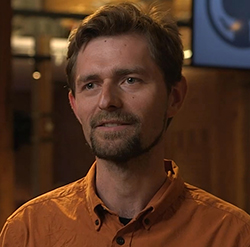
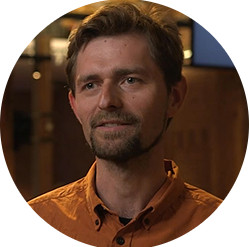
stripping down elements, formating members page

Changed region(s): [[0.56, 0.0, 1.0, 1.0], [0.0, 0.5385, 0.392, 1.0], [0.0, 0.0, 0.42, 0.4818]]

diff --git a/index.html b/index.html
@@ -12,14 +12,14 @@ subtitle: Department of Environmental Science, Policy and Management
   <div class="row">
     <div class="col-md-5 col-md-offset-1">
       <p>
-      Welcome to the research group of  <a property="foaf:homepage
+      Welcome to the research group of <a property="foaf:homepage
       schema:url" href="http://carlboettiger.info"><span
       property="foaf:name"> <span property="foaf:givenName">Carl</span>
-      <span property="foaf:familyName">Boettiger</span>
-      </span></a>, <span property="schema:jobTitle">Assistant
-      Professor</span> in the department of <a rel="schema:affiliation"
+      <span property="foaf:familyName">Boettiger</span></span></a>, 
+      <span property="schema:jobTitle">Assistant
+      Professor</span> in the Department of <a rel="schema:affiliation"
       href="http://ourenvironment.berkeley.edu">Environmental Science,
-      Policy and Management</a>, at <a rel="foaf:workplaceHomepage"
+      Policy and Management</a> at <a rel="foaf:workplaceHomepage"
       href="http://www.berkeley.edu/">UC Berkeley</a>.
       <span rel="foaf:interest"> We work on regime shifts in ecology and
       evolution. Such shifts mark the most dramatic events in complex
@@ -32,10 +32,10 @@ subtitle: Department of Environmental Science, Policy and Management
       high performance computing and big data sets. </span>
        </p>
     </div> <!-- END col-md-5-->
-    <div class="col-md-3"><img property="foaf:depiction" src="assets/img/carlboettiger.png" alt="Photo of Carl Boettiger"/></div>
+    <div class="col-md-3"><img property="foaf:depiction" src="assets/img/carl_ropensci.jpg" alt="Photo of Carl Boettiger"/></div>
   </div> <!-- END row-->
   <div class="row">
-    <div class="col-md-5 col-md-offset-1">
+    <div class="col-md-4 col-md-offset-1">
       <dl class="dl-horizontal">
         <dt><i class="icon-envelope-alt"></i> Contact:</dt>
         <dd><script type="text/javascript" src="/assets/js/obfuscate-email.js"></script></dd>
@@ -44,10 +44,12 @@ subtitle: Department of Environmental Science, Policy and Management
         <span property="schema:address"
         typeof="http://schema.org/PostalAddress" vocab=
         "http://schema.org/PostalAddress/"><span property=
-        "streetAddress">Center for Stock Assessment Research, 110 Shaffer Rd</span>, <span
-        property=  "addressLocality">Santa Cruz</span>, <span property=
+        "streetAddress">University of California, Berkeley
+        Department of Environmental Science, Policy, and
+        Management 130 Mulford Hall #3114</span>, <span
+        property=  "addressLocality">Berkeley</span>, <span property=
         "addressRegion">CA</span> <span property=
-        "postalCode">95050</span>, <span property=
+        "postalCode">94720-3114</span>, <span property=
         "addressCountry">USA</span></span> </dd>
         <dt><i class="icon-barcode"></i> Orcid ID:</dt>
         <dd><a property="http://purl.org/spar/datacite/orcid"

diff --git a/members.html b/members.html
@@ -1,0 +1,57 @@
+---
+layout: page
+title: Members
+
+---
+
+<div  class="col-md-5"
+ prefix="schema: http://schema.org/Person#" 
+ typeof="foaf:Person schema:Person" 
+ about="{{site.url}}#me"
+ style="font-size:20px; text-align:center;">
+
+  <p>
+  <img property="foaf:depiction" 
+       src="assets/img/carl_circle.png" 
+       alt="Photo of Carl Boettiger"/>
+  </p>
+  <p>
+  <a property="foaf:homepage schema:url" 
+     href="http://carlboettiger.info"><span
+     property="foaf:name"><span 
+     property="foaf:givenName">Carl</span> <span
+     property="foaf:familyName">Boettiger</span></span></a>
+  </p>
+  <p class="socialicons">
+  <script type="text/javascript" src="/assets/js/obfuscate-email-link.js"></script> 
+  <a rel="foaf:account" href="https://twitter.com/{{site.author.twitter}}" 
+  onclick="recordOutboundLink(this, 'Outbound Links', 'Twitter'); 
+  return false;"><span class="showtooltip" title="follow me on twitter (reading, discussing)"><i class="fa fa-twitter"></i></span></a> 
+  <a rel="foaf:account" href="https://github.com/{{site.author.github}}" 
+  onclick="recordOutboundLink(this, 'Outbound Links', 'Github'); 
+  return false;"><span class="showtooltip" title="follow me on Github (code, research)"><i class="fa fa-github"></i></span></a>
+  <a  property="http://purl.org/spar/datacite/orcid"
+    href="https://orcid.org/0000-0002-1642-628X" 
+    onclick="recordOutboundLink(this, 'Outbound Links', 'Github'); 
+    return false;"><span class="showtooltip" title="ORCID ID (Publications)"><i class="ai ai-orcid"></i></span></a>
+  <a rel="foaf:weblog" type="application/atom+xml" href="/blog.xml"  
+  class="showtooltip" title="RSS feeds for my blog-style entries. See the feed on my lab notebook (/atom.xml) to follow all entries instead." 
+  onclick="recordOutboundLink(this, 'Outbound Links', 'RSS'); 
+  return false;"><i class="fa fa-rss"></i></a>
+
+<!--
+<a rel="foaf:account" href="https://plus.google.com/{{site.author.gplus}}" 
+onclick="recordOutboundLink(this, 'Outbound Links', 'GPlus'); 
+return false;"><i class="fa fa-google-plus"></i></a>
+
+<a rel="foaf:account" href="http://www.mendeley.com/profiles/{{site.author.mendeley}}" 
+onclick="recordOutboundLink(this, 'Outbound Links', 'Mendeley'); 
+return false;"><img src="/assets/img/icon-mendeley.png" /></a> 
+
+citations on google-scholar
+
+stackoverflow
+-->
+</p>
+</div>
+

diff --git a/_includes/navbar.html b/_includes/navbar.html
@@ -19,14 +19,12 @@
 
           <li {% if page.url == "/index.html" %} class="active" {% endif %} >
           <a href="/index.html">Home</a></li>
-          <li {% if page.url == "/vita.html" %} class="active" {% endif %} >
-          <a href="/about.html">About</a></li>
-          <li {% if page.url == "/research.html" %} class="active" {% endif %} >
+          <li {% if page.url == "/members.html" %} class="active"{% endif %} >
+          <a href="/members.html">Members</a></li>
+          <li {% if page.url == "/publications.html" %} class="active" {% endif %} >
           <a href="/publications.html">Publications</a></li>
           <li {% if page.url == "/teaching.html" %} class="active" {% endif %} >
           <a href="/teaching.html">Teaching</a></li>
-          <li {% if page.url == "/community.html" %} class="active"{% endif %} >
-          <a href="/members.html">Members</a></li>
           <li {% if page.url == "/lab-notebook.html" %} class="active"{% endif %} >
           <a href="/lab-notebook.html">Lab Notebook</a></li>
 

diff --git a/_layouts/vita.html b/_layouts/vita.html
@@ -1,6 +1,5 @@
 ---
 layout: default
-title: Vita 
 
 ---
 
@@ -13,7 +12,7 @@ title: Vita
     </article>
   </div>
   <div class="col-md-4" style="border-left: 1px solid #eee8d5;"><!-- sidebar -->   
-    <p> Vita last updated: </p>
+    <p> last updated: </p>
     <p><i class="icon-calendar"></i> <time 
           datetime="{{ page.name | git_mod }}" 
           property="dc:modified">{{ page.name | git_mod | date_to_string }}</time></p>

diff --git a/teaching.md b/teaching.md
@@ -4,96 +4,8 @@ title: Teaching
 
 ---
 
-Philosophy
-----------
+## Ecological Data Science
 
-![floatright](/assets/img/watch.png) I am passionate about experiential,
-active learning that is problem-based, social, interdisciplinary,
-quantitative and leverages technology. Though borne out of my own
-experience as both student and instructor, my approach is also
-influenced by the examples of such thinkers as Nobel laureate
-[Carl Wieman](http://doi.org/10.1126/science.340.6130.292
-"profile in Science Magazine (pdf)"), Professor [Eric
-Mazur](http://www.youtube.com/watch?v=WwslBPj8GgI
-"lecture on teaching (YouTube recording)") and [Sir Ken
-Robinson](http://www.ted.com/talks/ken_robinson_says_schools_kill_creativity.html
-"TED talk").  Good teaching practices should be rooted in scientific
-study, not anecdote; and much of this philosophy is well borne
-out in the educational research literature.  Pieces that have
-been particularly influential for me include the evidence for
-the value of collaborative problem-solving in science education
-([Anderson et al. 2011](http://doi.org/10.1126/science.1198280
-"Science education.  Changing the culture of science education at
-research universities.")); the immense evidence for active learning,
-([Cornelius-White 2007](http://doi.org/10.3102/003465430298563
-"Learner-Centered Teacher-Student Relationships Are Effective: A
-Meta-Analysis")); the road-map for quantitative, interdisciplinary
-and research driven biology training ([Bialek & Botstein
-2004](http://doi.org/10.1126/science.1095480 "Introductory science and
-mathematics education for 21st-Century biologists.")). I am also
-interested in how approaches such as the use of social media ([Junco,
-et al 2010](http://doi.org/10.1111/j.1365-2729.2010.00387.x "The
-effect of Twitter on college student engagement and grades")), peer
-instruction, and delibrate practice ([Deslauriers, Schelew & Wieman
-2011](http://doi.org/10.1126/science.1201783 "Improved Learning in a
-Large-Enrollment Physics Class")) can bring some of the benefits of
-small classes into large lectures.
+## Topics in Ecoinformatics
 
-Experience
-----------
-
-I have been an instructor at the [Bodega Phylogenetics Workshop
-(2011)](http://bodegaphylo.wikispot.org/2011_Workshop), an intensive
-1-week course that draws about 40 students from around the world to
-learn the latest methods in phylogenetics. I teach a
-[section](http://bodegaphylo.wikispot.org/Continuous_Character_Evolution_%28Boettiger%29_2011)
-on comparative methods and basic programming. I taught upper-division
-undergraduate students in biology, mathematics and computers science
-through the NSF training initiative [CLIMB](http://climb.ucdavis.edu/)
-(Collaborative Learning at the Interface of Mathematics and Biology)
-program at UC Davis in spring and summer of 2008. A diverse group of
-eight students designed and conducted a research project into
-meta-population dynamics of avian influenza and organized a conference
-of academics, state epidemiologists, and representatives from chicken
-industry to present and discuss their findings. I have been a teaching
-assistant for introductory biology (1B), a lab-driven course introducing
-students to fundamentals of zoology. I have been involved in outdoor
-education for eight years, where I have gained experience in group
-dynamics and facilitation, leadership theory and active learning. On
-campus I have helped lead the [Graduate Student Teaching
-Community](http://gtc-blog.blogspot.com), where graduate students and
-post-doctoral fellows can discuss and practice new teaching strategies.
-I'm a member of the Center for Learning and Excellence at UC Davis. I
-also enjoy educational outreach, particularly where it combines active
-learning, technology and biology. I've worked with middle school
-teachers on how to use simple computer simulation software
-([netlogo](http://ccl.northwestern.edu/netlogo/)) to provide an
-exploratory approach to teaching ecology and evolution in the [SIRC
-program](http://sasp.ucdavis.edu),
-and have gave a guest lecture on ecological dynamics at [University of
-the Pacific](http://www.carlboettiger.info/archives/843). I'm a
-[member](http://www.nationallabnetwork.org/scientists/b1412e8c-1348-f09a-d368-919e80c4ee07)
-of the [National Lab Network](http://www.nationallabnetwork.org) and I
-keep an open [teaching
-notebook](http://www.carlboettiger.info/categories.html#teaching)
-where I reflect on my experiences.
-
-Education Research
-------------------
-
-While teaching with CLIMB I had the chance to work alongside a graduate
-student from the UC Davis department of Education who was writing her
-thesis on the program, and first introduced me to some of the recent
-research in effective education. Davis has several excellent research
-programs in higher education, within the education department and
-beyond, such as the physics education research track and the highly
-successful Physics 7 program, as well as the CLIMB program. I am quite
-interested educational research and a scientific approach to education,
-and as such try to follow a bit of what is going on in the educational
-literature. The papers mentioned above provide some of the foundational
-philosophy towards education. I maintain a [Mendeley reading
-list](http://www.mendeley.com/groups/530011/education)
-of articles I encounter that may be of interest to others wanting to
-know more about educational research.  <a href="http://www.mendeley.com/groups/530011/education/feed/rss"><i class="icon-rss"></i></a>
-
-
+## Topics in Theoretical Ecology

diff --git a/about.md b/about.md
@@ -31,11 +31,12 @@ education
 service
 -------
 
-- **[NCEAS Scientific Advisory Board](https://www.nceas.ucsb.edu/news/nceas-appoints-new-science-advisers)**
-- **[rOpenSci Leadership team](http://ropensci.org/about/#leadership)**
+- NCEAS Scientific Advisory [Board](https://www.nceas.ucsb.edu/news/nceas-appoints-new-science-advisers) 
+
+- rOpenSci Leadership [Team](http://ropensci.org/about/#leadership)
 
 
-Media coverage
+media coverage
 --------------
 
 - Tachibana, C. (2014). "The paperless lab" _Science_ 345(6195) pp. 468-470. [10.1126/science.opms.p1400087](http://www.sciencemag.org/site/products/lst_20140613.xhtml)

diff --git a/publications.md b/publications.md
@@ -1,5 +1,5 @@
 ---
-layout: vita
+layout: pubs
 title: Publications 
 ---
 
@@ -82,6 +82,9 @@ title: Publications
 	([arXiv](http://arxiv.org/abs/astro-ph/0603060))
 </ol>
 
+
+<!--
+
 theses
 ------
 
@@ -138,5 +141,5 @@ selected software
 -   I am also a founding member of the [rOpenSci
     project](http://ropensci.org) under which I have written several
     additional software projects
-
+-->
 
